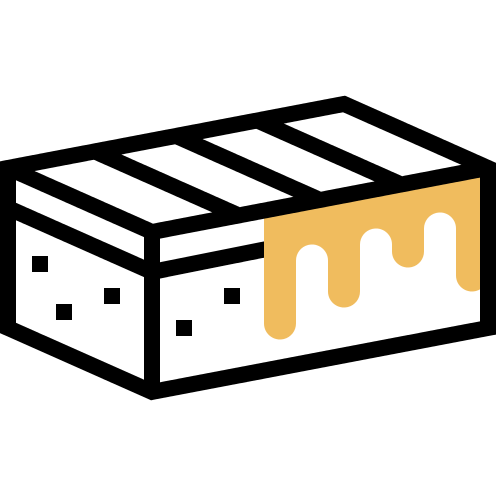
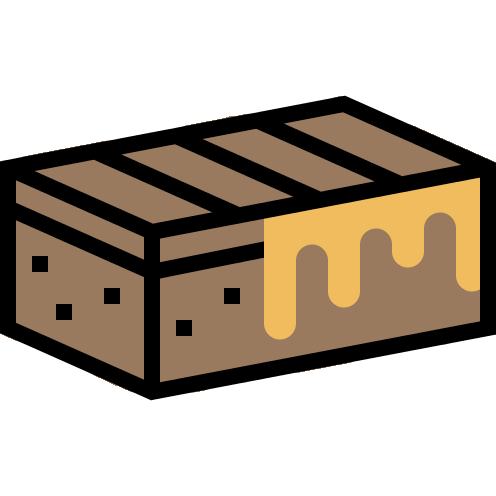
menu page done
menu.html

Changed region(s): [[0.0302, 0.2117, 0.9677, 0.7863]]

diff --git a/testSite/menu.html b/testSite/menu.html
@@ -5,7 +5,7 @@
         <!-- Basic Page Needs
 –––––––––––––––––––––––––––––––––––––––––––––––––– -->
         <meta charset="utf-8">
-        <title>CSE135 Bakery</title>
+        <title>CSE135 Bakery - Menu</title>
         <meta name="description" content="">
         <meta name="author" content="">
 
@@ -27,7 +27,6 @@
 –––––––––––––––––––––––––––––––––––––––––––––––––– -->
         <script src="//ajax.googleapis.com/ajax/libs/jquery/2.1.1/jquery.min.js"></script>
 
-
         <!-- Favicon
 –––––––––––––––––––––––––––––––––––––––––––––––––– -->
         <link rel="icon" type="image/png" href="./assets/img/favicon.png">
@@ -43,81 +42,79 @@
             </div>
         </div>
 
-        <div class="section billboard">
+        <div class="section billboard" style="height: 8vw;">
             <div class="container">
                 <div class="row">
                     <div class="one-half column">
-                        <h4 class="hero-heading">Let's get this artisan bread.</h4>
-                    </div>
-                </div>
-                <div class="row">
-                    <div class="one-half column">
-                        <a class="button" href="./menu.html">View Menu</a>
+                        <a class="button" href="./index.html">Back</a>
                     </div>
                 </div>
             </div>
         </div>
 
 
-        <div class="section intro">
+        <div class="section menu">
             <div class="container">
-                <h3>We are...</h3>
-                <div class="row">
-                    <div class="one-third column value">
-                        <h4 class="value-multiplier">Local</h4>
-                        <h5 class="value-heading">Made in San Diego</h5>
-                        <p class="value-description">Yes our bread tastes like sunshine and vacation.</p>
+                <h3>Menu</h3>
+                <div class="row container-2">
+                    <div class="one-half column menu-item picture" id="brownie">
+                        <img class="u-max-full-width"  src="./assets/img/brownie-color.png" id="brownie-img">
                     </div>
-                    <div class="one-third column value">
-                        <h4 class="value-multiplier">Fresh</h4>
-                        <h5 class="value-heading">Made in small batch</h5>
-                        <p class="value-description">What taste better than freshly made bread??</p>
-                    </div>
-                    <div class="one-third column value">
-                        <h4 class="value-multiplier">Ethical </h4>
-                        <h5 class="value-heading">Fair wage for all</h5>
-                        <p class="value-description">We pay fairly for labor.</p>
+                    <div class="one-half column menu-item">
+                        <h5 class="value-heading">Fudge Brownie</h5>
+                        <p class="value-description">Yep just a brownie.</p>
+                        <a class="button" id="brownie-button" href="#">Order</a>
                     </div>
                 </div>
-                <a class="button" id="learn-more"href="#">Learn More</a>
+
+
+                <div class="row container-2">
+                    <div class="one-half column menu-item picture" id="cookie">
+                        <img class="u-max-full-width"  src="./assets/img/cookies-color.png" id="cookie-img">
+                    </div>
+                    <div class="one-half column menu-item">
+                        <h5 class="value-heading">Oatmeal Rasin Cookie</h5>
+                        <p class="value-description">The cookie ya wanna track.</p>
+                        <a class="button" id="cookie-button" href="#">Order</a>
+                    </div>
+                </div>
+
+                <div class="row container-2">
+
+                    <div class="one-half column menu-item picture" id="muffin">
+                        <img class="u-max-full-width"  src="./assets/img/muffin-color.png" id="muffin-img">
+                    </div>
+
+                    <div class="one-half column menu-item">
+                        <h5 class="value-heading">Ice Cream Muffin</h5>
+                        <p class="value-description">Did someone say ice cream.</p>
+                        <a class="button" id="muffin-button" href="#">Order</a>
+                    </div>
+                </div>
+
+                <div class="row container-2">
+
+                    <div class="one-half column menu-item picture" id="bread">
+                        <img class="u-max-full-width"  src="./assets/img/bread-color.png" id="bread-img">
+                    </div>
+                    <div class="one-half column menu-item">
+                        <h5 class="value-heading">Banana Bread</h5>
+                        <p class="value-description">Banana uwu na na.</p>
+                        <a class="button" id="bread-button" href="#">Order</a>
+                    </div>
+                </div>
             </div>
         </div>
 
-        <div class="section deliver">
-            <div class="container">
-                <h3 class="section-heading">We Cater!</h3>
 
-                <div class="row">
-
-                    <div class="one-half column value">
-                        <p class="section-description">Just give us a call at 858-900-0135.</p>
-                        <p>Our catering services is dope.</p>
-                    </div>
-                    <div class="one-half column value">
-                        <img class="u-max-full-width"  src="./assets/img/freedelivery.png">
-                    </div>
-                </div>
-            </div>
-
-        </div>
-
-        <div class="section satisfaction">
-            <div class="container">
-                <h3 class="section-heading">Customer Satisfaction</h3>
-                <p class="section-description">we really out here trying you know. UWU</p>
-                <div class="row">
-                </div>
-            </div>
-        </div>
-        
         <div class="section pictures">
             <div class="container">
-                    <div class="one-half column value">
-                        <img class="u-max-full-width"  src="../assets/img/topviewbread.jpg">
-                    </div>
                 <div class="one-half column value">
-                        <img class="u-max-full-width"  src="../assets/img/flour.jpg">
-                    </div>
+                    <img class="u-max-full-width"  src="../assets/img/topviewbread.jpg">
+                </div>
+                <div class="one-half column value">
+                    <img class="u-max-full-width"  src="../assets/img/flour.jpg">
+                </div>
             </div>
         </div>
 

diff --git a/testSite/assets/css/custom.css b/testSite/assets/css/custom.css
@@ -1,7 +1,7 @@
 .top-nav {
     background-color: darkslategray;
     color: white;
-    
+
 }
 
 .intro {
@@ -18,8 +18,6 @@
     background-color: darkslategray;
     color: white;
 }
-
-
 
 .top-nav h1 {
     font-size: 24px;
@@ -39,8 +37,38 @@
     position:relative;
 }
 
-
 .intro .button {
     color: white;
 }
+
+.menu {
+    background-color: darkslategray;
+    color: white;
+}
+
+.container-2 {
+    display: table;
+    width: 100%;
+    word-wrap: break-word;
+    padding: 10px;
+    margin: 10px;
+    border: 2px solid white;
+}
+
+.menu-item {
+    display: table-cell;
+    border-radius: 2px;
+    padding: 10px;
+}
+
+.menu-item > img {
+    width: 20vw;
+}
+
+.menu-item > .button {
+    color: white;
+}
+
+
+
 
